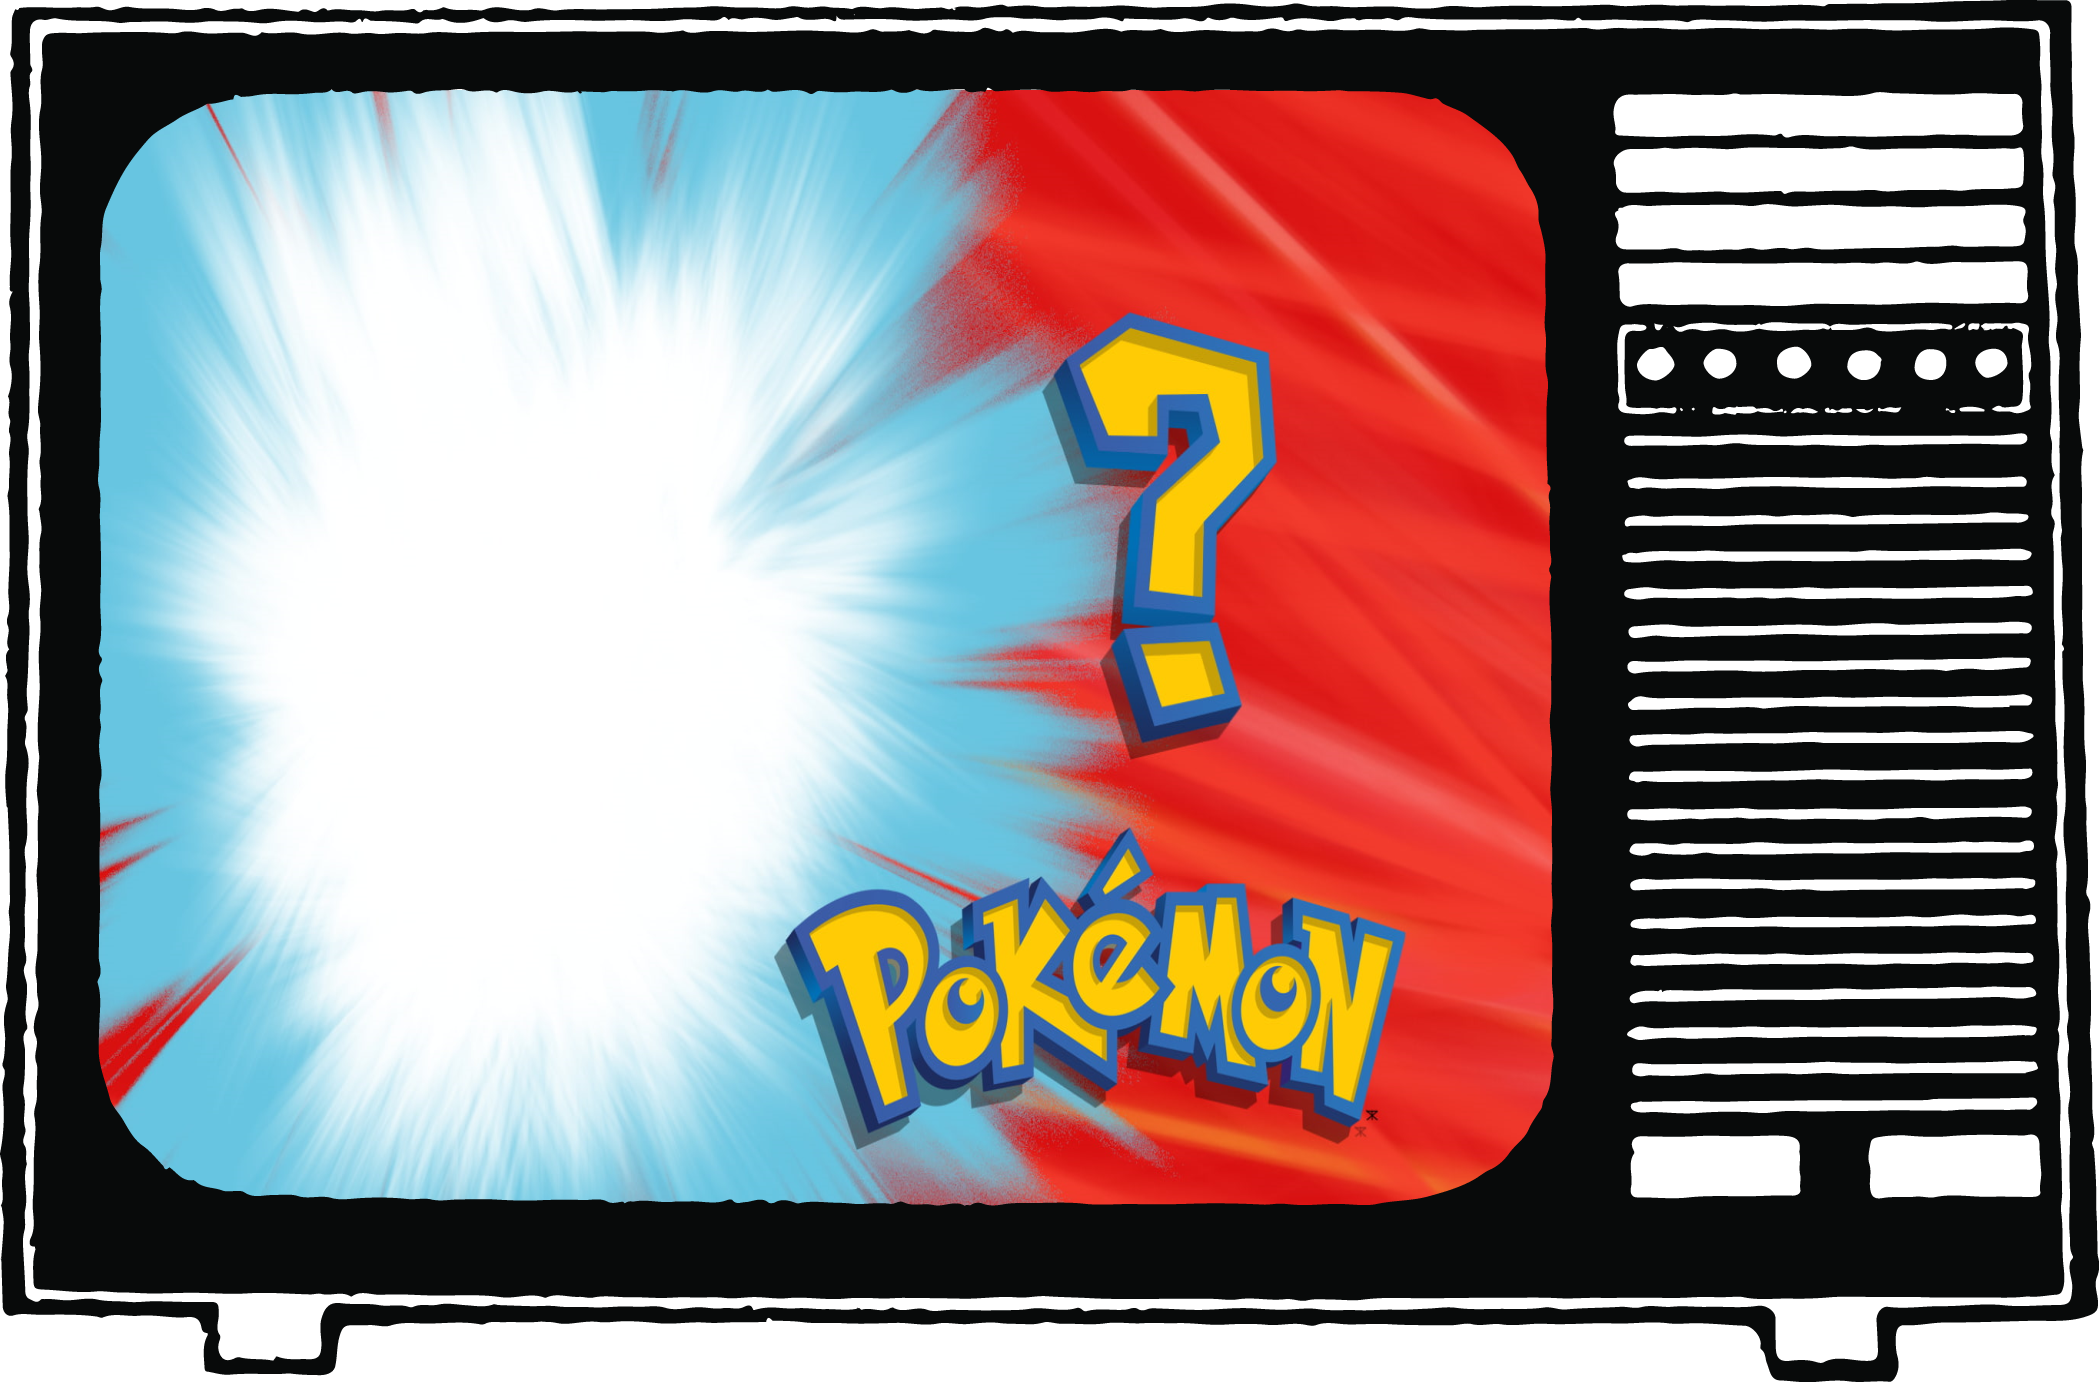
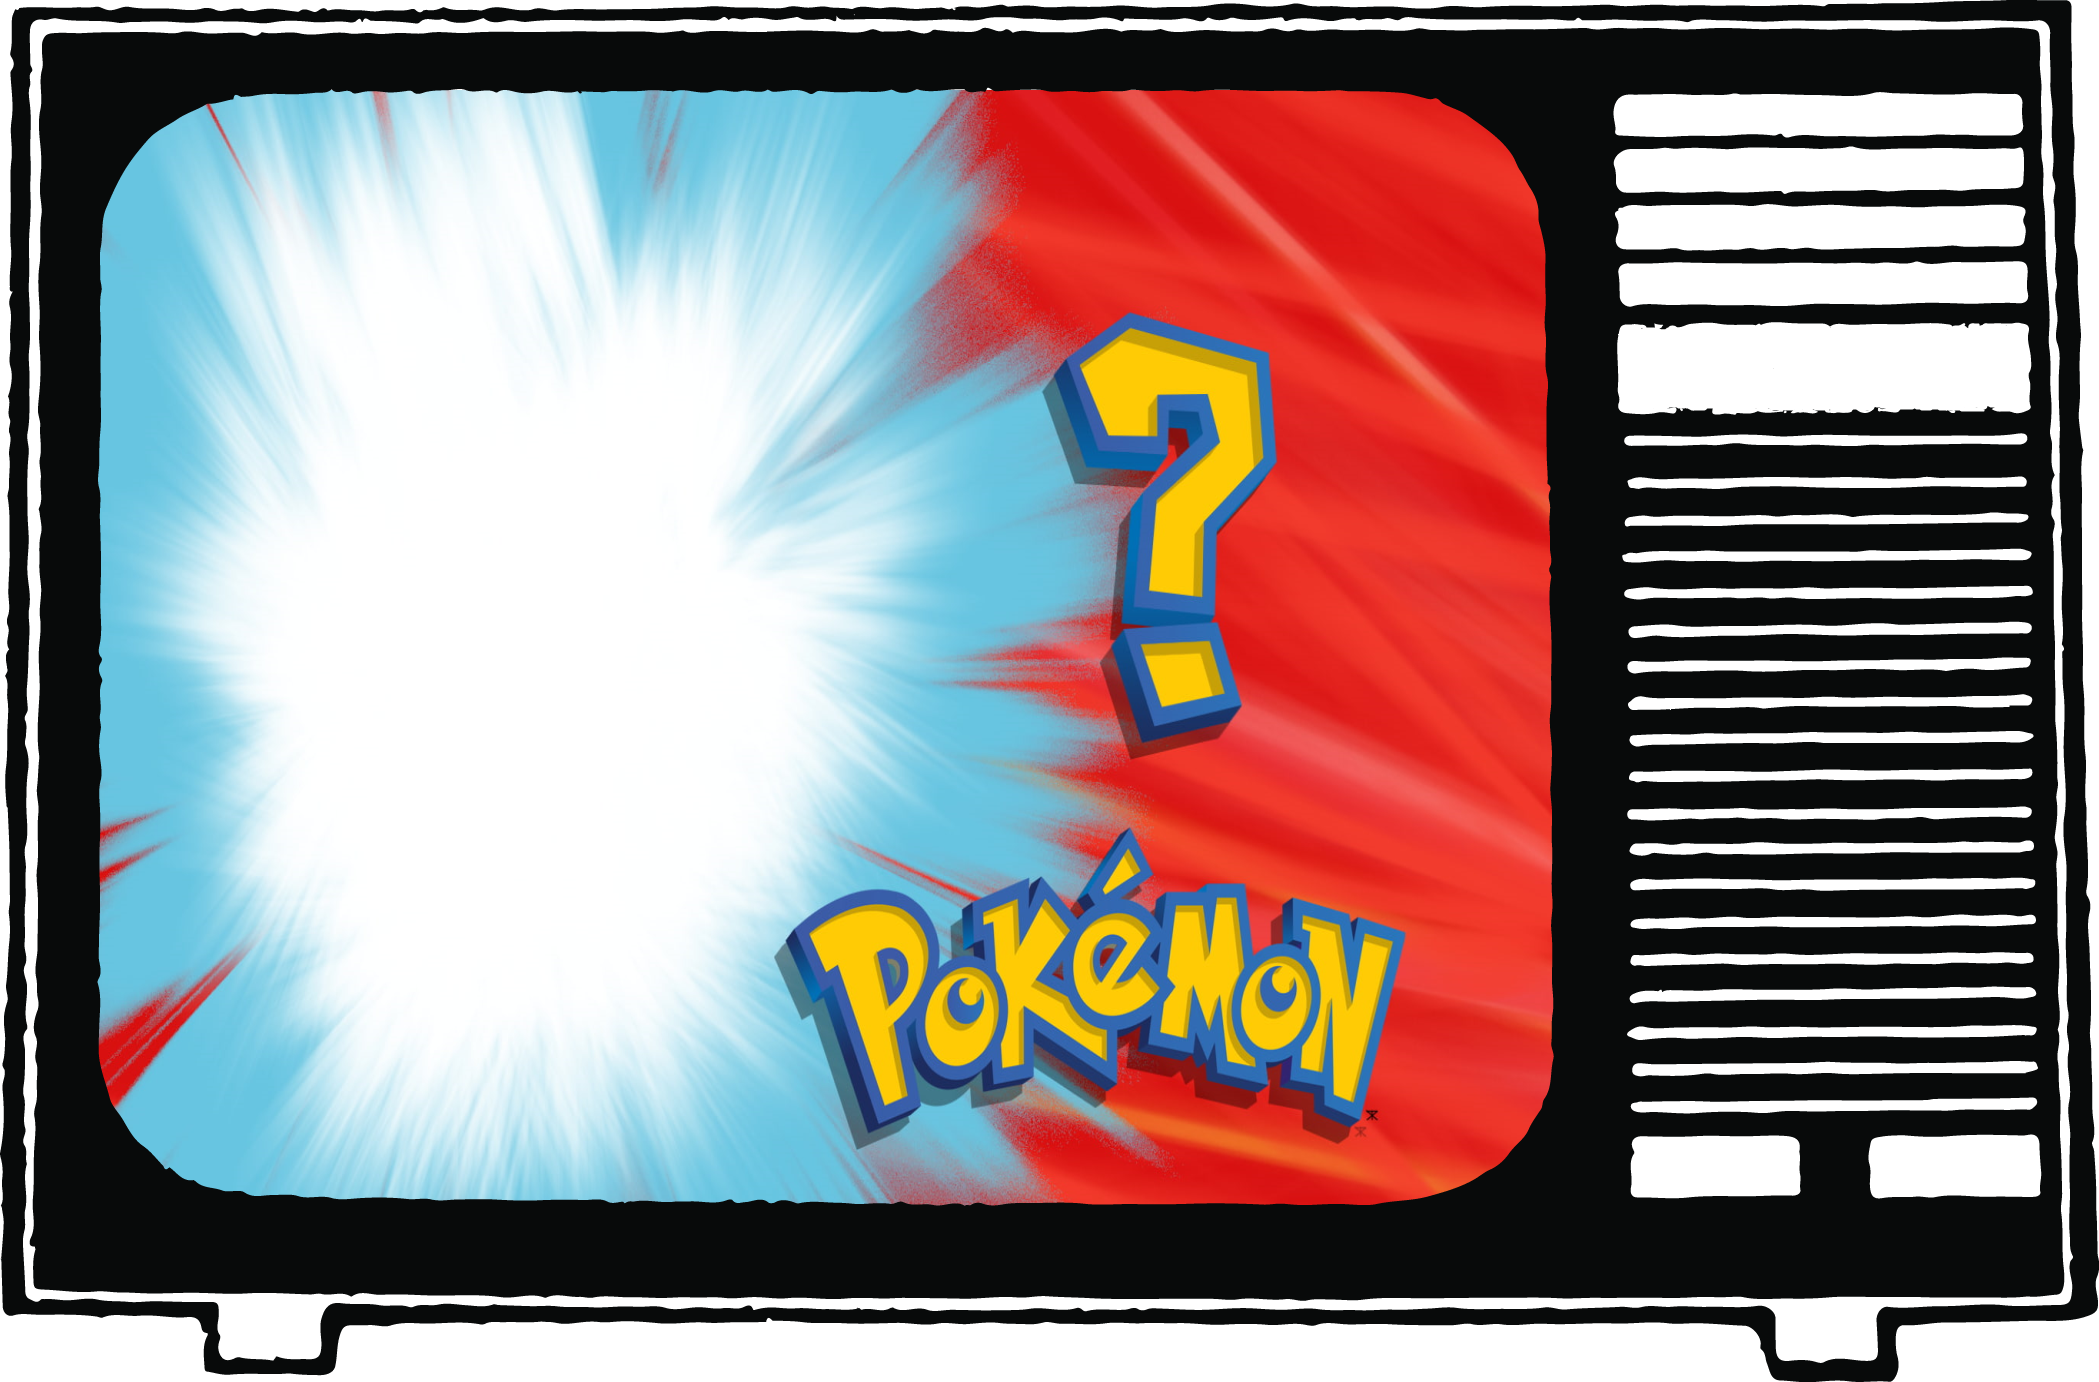
testes de poscionamento

Changed region(s): [[0.7742, 0.2178, 0.9909, 0.3111]]

diff --git a/SANDBOX/POKEDEX TEST LAYOUT/assets/css/style.css b/SANDBOX/POKEDEX TEST LAYOUT/assets/css/style.css
@@ -17,7 +17,7 @@ img {
 }
 
 body {
-  background: linear-gradient(to bottom, #6ab7f5, #fff);
+  background: linear-gradient(to bottom, #f53434, #fff);
   min-height: 100vh;
 }
 
@@ -65,19 +65,19 @@ body {
   height: 20%;
 }
 
-#btnNext,
+/* #btnNext,
 #btnBefore {
   position: absolute;
-}
+} */
 
-#btnBefore {
-  /* right: 18.5%;
-  bottom: 14.5%;
-  z-index: -1;
-  padding: 0.6%;
-  border: none;
-  font-size: 1.3rem;
-  font-weight: 600; */
+/* right: 18.5%;
+bottom: 14.5%;
+z-index: -1;
+padding: 0.6%;
+border: none;
+font-size: 1.3rem;
+font-weight: 600; */
+/* #btnBefore {
   right: 16.4%;
   bottom: 15.6%;
   padding: 0 2.5%;
@@ -85,25 +85,180 @@ body {
   font-size: 1.3rem;
   font-weight: 600;
   border-radius: 15%;
-}
+} */
 
 #btnBefore:hover,
 #btnNext:hover {
   background-color: blue;
 }
 
-#btnNext {
+/* #btnNext {
   right: 5.6%;
   bottom: 15.6%;
-  /* z-index: -1; */
   padding: 0 2.5%;
   border: none;
   font-size: 1.3rem;
   font-weight: 600;
   border-radius: 15%;
   width: fit-content;
-}
+} */
 
 #btnNext:active {
   background-color: blue;
+}
+
+#pokemonName,
+span {
+  display: flex;
+}
+
+/* #pokemonDataContainer {
+  position: absolute;
+  right: 5%;
+  top: 0;
+  display: grid;
+  grid-template-columns: 1fr 1fr;
+  height: 25%;
+} */
+
+/* #pokemonName,
+#pokemonType,
+#pokemonHeight,
+#pokemonWeight,
+#pokemonSearch {
+  position: absolute;
+  left: 75.4%;
+  border-radius: 20%;
+  font-size: 0.8rem;
+  font-weight: 600;
+  width: 18%;
+  padding-left: 1%;
+  background-color: white;
+}
+
+#pokemonBefore,
+#pokemonNext {
+  display: block;
+  width: fit-content;
+}
+
+#pokemonName {
+  top: 9%;
+}
+
+#pokemonType {
+  top: 12.6%;
+}
+
+#pokemonHeight {
+  top: 16.2%;
+}
+
+#pokemonWeight {
+  top: 20%;
+}
+
+#pokemonSearch {
+  top: 24.8%;
+} */
+
+/* #pokemonSearch input {
+  padding: 1.5%;
+  border: none;
+} */
+
+/* #pokemonDataContainer {
+  background-color: white;
+  position: absolute;
+  left: 75%;
+  padding-left: 1%;
+  width: 19.3%;
+  height: 70%;
+  top: 8%;
+} */
+
+#pokemonType {
+  top: 4.8%;
+  position: absolute;
+}
+#pokemonHeight {
+  top: 10%;
+  position: absolute;
+}
+#pokemonWeight {
+  top: 14.6%;
+  position: absolute;
+}
+
+#pokemonName {
+  top: 9%;
+}
+
+#pokemonType {
+  top: 12.5%;
+}
+
+#pokemonHeight {
+  top: 16.5%;
+}
+
+#pokemonWeight {
+  top: 20%;
+}
+
+#pokemonSearch {
+  position: absolute;
+  top: 25.5%;
+  left: 75.5%;
+  width: 12vw;
+}
+
+#pokemonSearch input {
+  width: 100%;
+  padding: 3%;
+  border: none;
+  outline: none;
+  font-size: 1rem;
+  font-weight: 600;
+  /* background-color: #f53434; */
+}
+
+#pokemonName,
+#pokemonType,
+#pokemonHeight,
+#pokemonWeight {
+  position: absolute;
+  left: 75%;
+  border-radius: 20%;
+  font-size: 0.8rem;
+  font-weight: 600;
+  width: 18%;
+  padding-left: 1%;
+  /* background-color: white; */
+}
+
+#btnNext,
+#btnBefore {
+  position: absolute;
+  border-radius: 15%;
+  /* display: block; */
+  /* width: fit-content; */
+}
+
+#btnNext {
+  right: 5.6%;
+  bottom: 15.6%;
+  padding: 0 2.5%;
+  border: none;
+  font-size: 1.3rem;
+  font-weight: 600;
+}
+
+#btnBefore {
+  right: 16.4%;
+  bottom: 15.6%;
+  padding: 0 2.5%;
+  border: none;
+  font-size: 1.3rem;
+  font-weight: 600;
 }

diff --git a/SANDBOX/POKEDEX TEST LAYOUT/index.html b/SANDBOX/POKEDEX TEST LAYOUT/index.html
@@ -14,6 +14,16 @@
         <img id="pokemonDisplay" src="" alt="" />
         <img id="tv" src="./assets/img/tv set retro old time.png" alt="tv bazel" />
         <!-- <img id="bg" src="./assets/img/wallpaper.jpg" alt="tv bazel" /> -->
+        <!-- <div id="pokemonDataContainer">
+          
+        </div> -->
+        <p id="pokemonName">
+          <span><img src="./assets/img/favicon-16x16.png" alt="" /></span>&nbsp;21 - Nome
+        </p>
+        <p id="pokemonType">Tipo</p>
+        <p id="pokemonHeight">Altura</p>
+        <p id="pokemonWeight">Peso</p>
+        <form id="pokemonSearch"><input type="text" required placeholder="Nome ou número" /></form>
         <p id="btnBefore">&lt;&lt;</p>
         <p id="btnNext">&gt;&gt;</p>
       </div>
